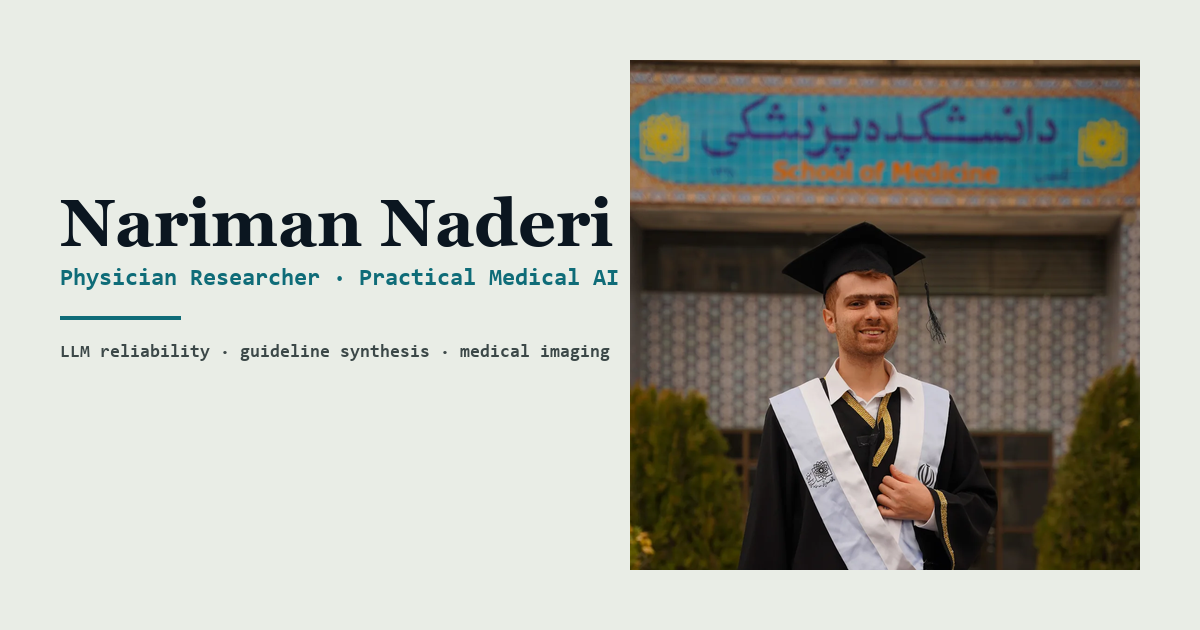
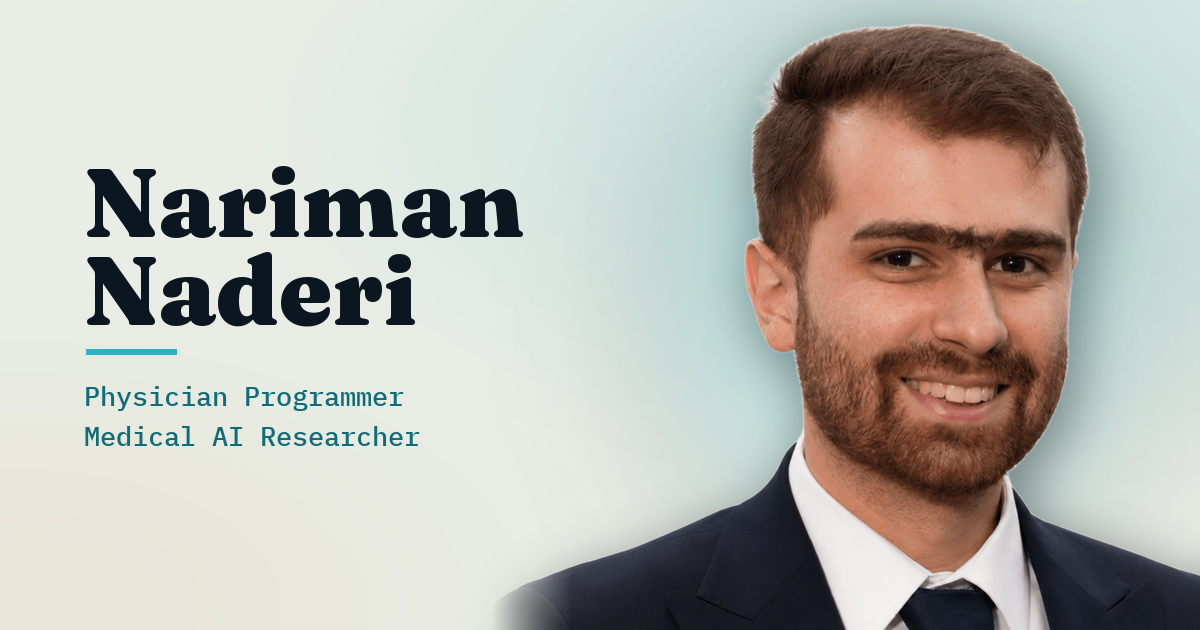
Update social card with new portrait

diff --git a/posts/computer-vision-medical-imaging.html b/posts/computer-vision-medical-imaging.html
@@ -21,11 +21,11 @@
   <meta property="og:description" content="Medical imaging AI depends on data structure, preprocessing, evaluation, and clinical meaning as much as architecture choice.">
   <meta property="og:type" content="article">
   <meta property="og:url" content="https://narimannr2x.github.io/posts/computer-vision-medical-imaging.html">
-  <meta property="og:image" content="https://narimannr2x.github.io/assets/images/social-card-1200x630.png">
+  <meta property="og:image" content="https://narimannr2x.github.io/assets/images/social-card-1200x630.png?v=20260927">
   <meta name="twitter:card" content="summary_large_image">
   <meta name="twitter:title" content="Medical Imaging AI Beyond the Model">
   <meta name="twitter:description" content="Medical imaging AI depends on data structure, preprocessing, evaluation, and clinical meaning as much as architecture choice.">
-  <meta name="twitter:image" content="https://narimannr2x.github.io/assets/images/social-card-1200x630.png">
+  <meta name="twitter:image" content="https://narimannr2x.github.io/assets/images/social-card-1200x630.png?v=20260927">
   <link rel="icon" href="../favicon.ico" sizes="any">
   <link rel="icon" type="image/png" href="../assets/images/favicon.png">
   <link rel="apple-touch-icon" href="../assets/images/favicon.png">
@@ -48,7 +48,7 @@
       "name": "Nariman Naderi"
     },
     "url": "https://narimannr2x.github.io/posts/computer-vision-medical-imaging.html",
-    "image": "https://narimannr2x.github.io/assets/images/social-card-1200x630.png"
+    "image": "https://narimannr2x.github.io/assets/images/social-card-1200x630.png?v=20260927"
   }
   </script>
 </head>

diff --git a/posts/future-of-medical-ai.html b/posts/future-of-medical-ai.html
@@ -21,11 +21,11 @@
   <meta property="og:description" content="Medical AI has to survive clinical workflows, evaluation, uncertainty, and trust, not only benchmarks.">
   <meta property="og:type" content="article">
   <meta property="og:url" content="https://narimannr2x.github.io/posts/future-of-medical-ai.html">
-  <meta property="og:image" content="https://narimannr2x.github.io/assets/images/social-card-1200x630.png">
+  <meta property="og:image" content="https://narimannr2x.github.io/assets/images/social-card-1200x630.png?v=20260927">
   <meta name="twitter:card" content="summary_large_image">
   <meta name="twitter:title" content="The Practical Future of Medical AI">
   <meta name="twitter:description" content="Medical AI has to survive clinical workflows, evaluation, uncertainty, and trust, not only benchmarks.">
-  <meta name="twitter:image" content="https://narimannr2x.github.io/assets/images/social-card-1200x630.png">
+  <meta name="twitter:image" content="https://narimannr2x.github.io/assets/images/social-card-1200x630.png?v=20260927">
   <link rel="icon" href="../favicon.ico" sizes="any">
   <link rel="icon" type="image/png" href="../assets/images/favicon.png">
   <link rel="apple-touch-icon" href="../assets/images/favicon.png">
@@ -48,7 +48,7 @@
       "name": "Nariman Naderi"
     },
     "url": "https://narimannr2x.github.io/posts/future-of-medical-ai.html",
-    "image": "https://narimannr2x.github.io/assets/images/social-card-1200x630.png"
+    "image": "https://narimannr2x.github.io/assets/images/social-card-1200x630.png?v=20260927"
   }
   </script>
 </head>

diff --git a/posts/rag-medical-guidelines.html b/posts/rag-medical-guidelines.html
@@ -21,11 +21,11 @@
   <meta property="og:description" content="Guideline RAG needs source tracing, conflict handling, and evaluation, not only retrieval.">
   <meta property="og:type" content="article">
   <meta property="og:url" content="https://narimannr2x.github.io/posts/rag-medical-guidelines.html">
-  <meta property="og:image" content="https://narimannr2x.github.io/assets/images/social-card-1200x630.png">
+  <meta property="og:image" content="https://narimannr2x.github.io/assets/images/social-card-1200x630.png?v=20260927">
   <meta name="twitter:card" content="summary_large_image">
   <meta name="twitter:title" content="Making Medical Guidelines Usable with RAG">
   <meta name="twitter:description" content="Guideline RAG needs source tracing, conflict handling, and evaluation, not only retrieval.">
-  <meta name="twitter:image" content="https://narimannr2x.github.io/assets/images/social-card-1200x630.png">
+  <meta name="twitter:image" content="https://narimannr2x.github.io/assets/images/social-card-1200x630.png?v=20260927">
   <link rel="icon" href="../favicon.ico" sizes="any">
   <link rel="icon" type="image/png" href="../assets/images/favicon.png">
   <link rel="apple-touch-icon" href="../assets/images/favicon.png">
@@ -48,7 +48,7 @@
       "name": "Nariman Naderi"
     },
     "url": "https://narimannr2x.github.io/posts/rag-medical-guidelines.html",
-    "image": "https://narimannr2x.github.io/assets/images/social-card-1200x630.png"
+    "image": "https://narimannr2x.github.io/assets/images/social-card-1200x630.png?v=20260927"
   }
   </script>
 </head>

diff --git a/index.html b/index.html
@@ -32,11 +32,11 @@
   <meta property="og:description" content="Physician programmer and medical AI researcher. Medicine gave me the questions. Code gave me another way to answer them.">
   <meta property="og:type" content="website">
   <meta property="og:url" content="https://narimannr2x.github.io/">
-  <meta property="og:image" content="https://narimannr2x.github.io/assets/images/social-card-1200x630.png">
+  <meta property="og:image" content="https://narimannr2x.github.io/assets/images/social-card-1200x630.png?v=20260927">
   <meta name="twitter:card" content="summary_large_image">
   <meta name="twitter:title" content="Nariman Naderi | Physician Programmer · Medical AI Researcher">
   <meta name="twitter:description" content="Physician programmer and medical AI researcher. Medicine gave me the questions. Code gave me another way to answer them.">
-  <meta name="twitter:image" content="https://narimannr2x.github.io/assets/images/social-card-1200x630.png">
+  <meta name="twitter:image" content="https://narimannr2x.github.io/assets/images/social-card-1200x630.png?v=20260927">
   <link rel="icon" href="favicon.ico" sizes="any">
   <link rel="icon" type="image/png" href="assets/images/favicon.png">
   <link rel="apple-touch-icon" href="assets/images/favicon.png">

diff --git a/blog.html b/blog.html
@@ -11,11 +11,11 @@
   <meta property="og:description" content="Short notes on medical AI systems, guideline RAG, and medical imaging.">
   <meta property="og:type" content="website">
   <meta property="og:url" content="https://narimannr2x.github.io/blog.html">
-  <meta property="og:image" content="https://narimannr2x.github.io/assets/images/social-card-1200x630.png">
+  <meta property="og:image" content="https://narimannr2x.github.io/assets/images/social-card-1200x630.png?v=20260927">
   <meta name="twitter:card" content="summary_large_image">
   <meta name="twitter:title" content="Writing | Nariman Naderi">
   <meta name="twitter:description" content="Short notes on medical AI systems, guideline RAG, and medical imaging.">
-  <meta name="twitter:image" content="https://narimannr2x.github.io/assets/images/social-card-1200x630.png">
+  <meta name="twitter:image" content="https://narimannr2x.github.io/assets/images/social-card-1200x630.png?v=20260927">
   <link rel="icon" href="favicon.ico" sizes="any">
   <link rel="icon" type="image/png" href="assets/images/favicon.png">
   <link rel="apple-touch-icon" href="assets/images/favicon.png">
